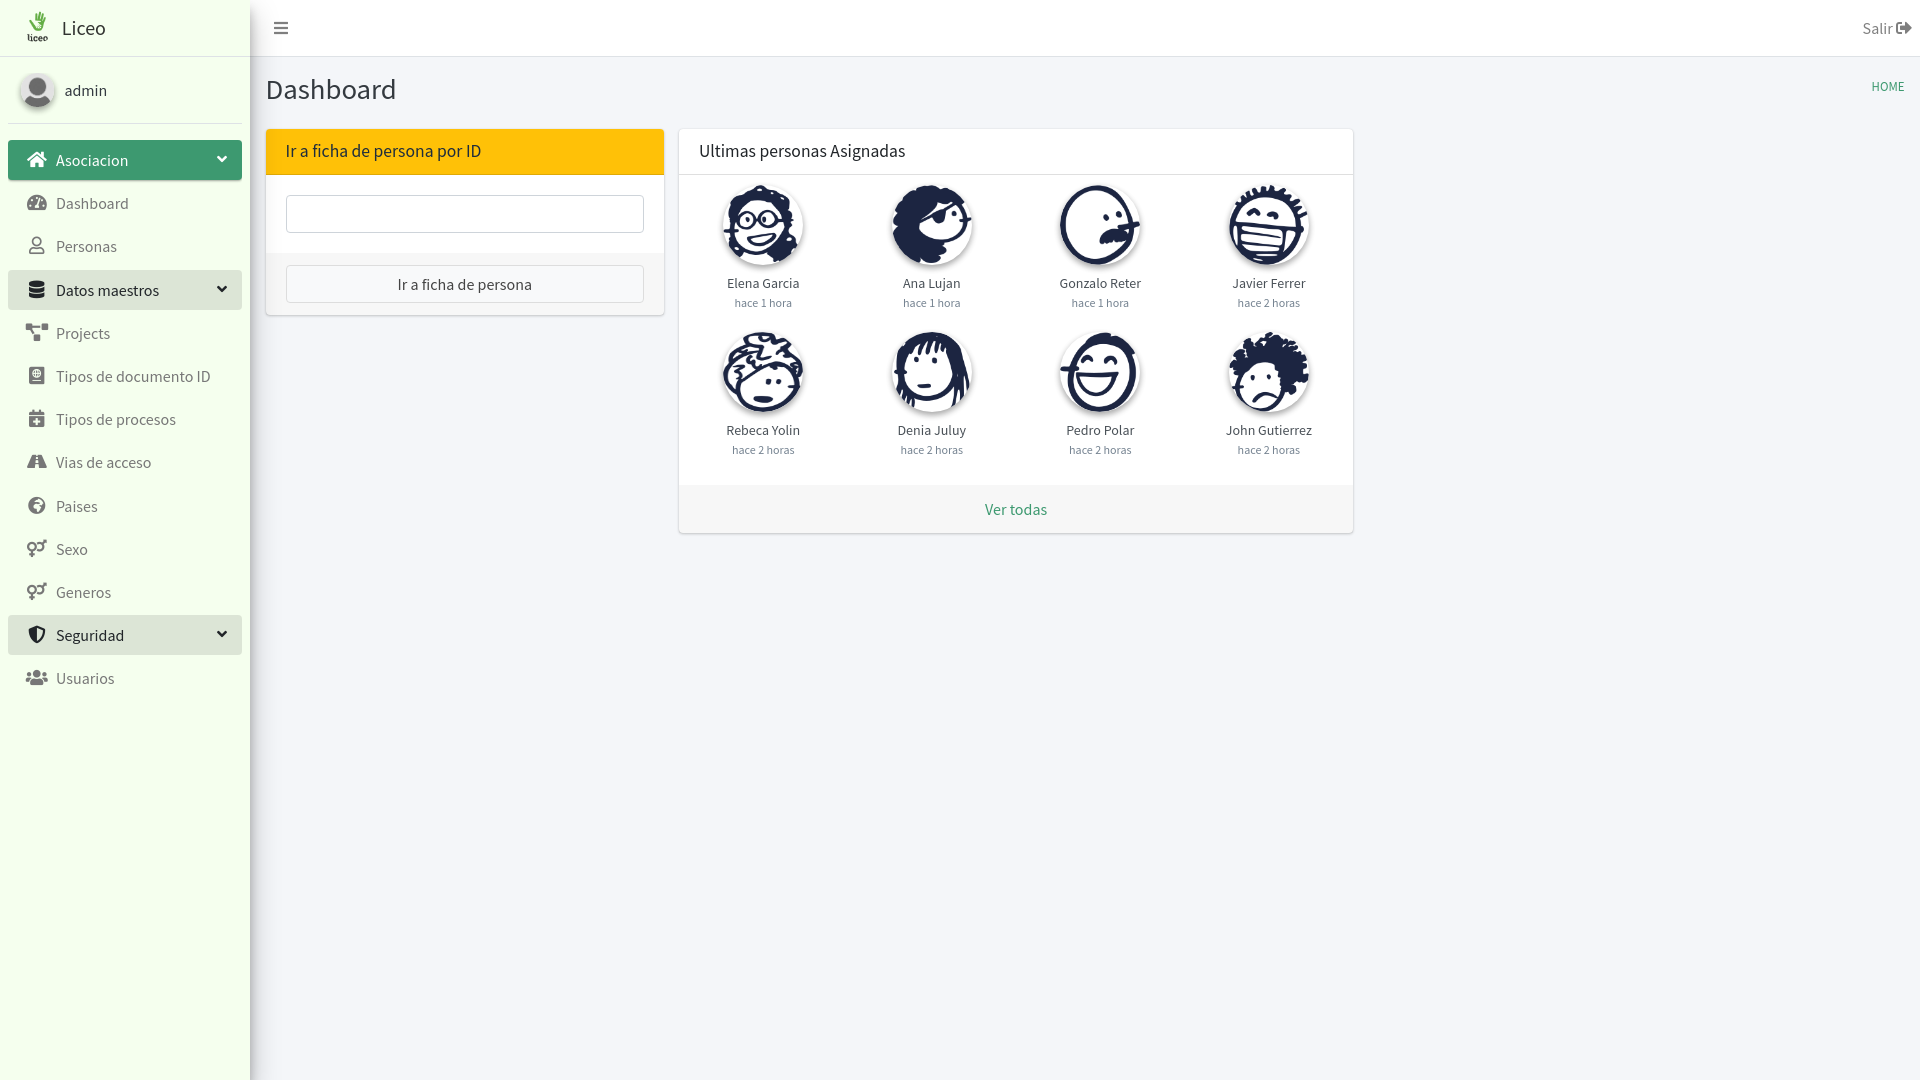
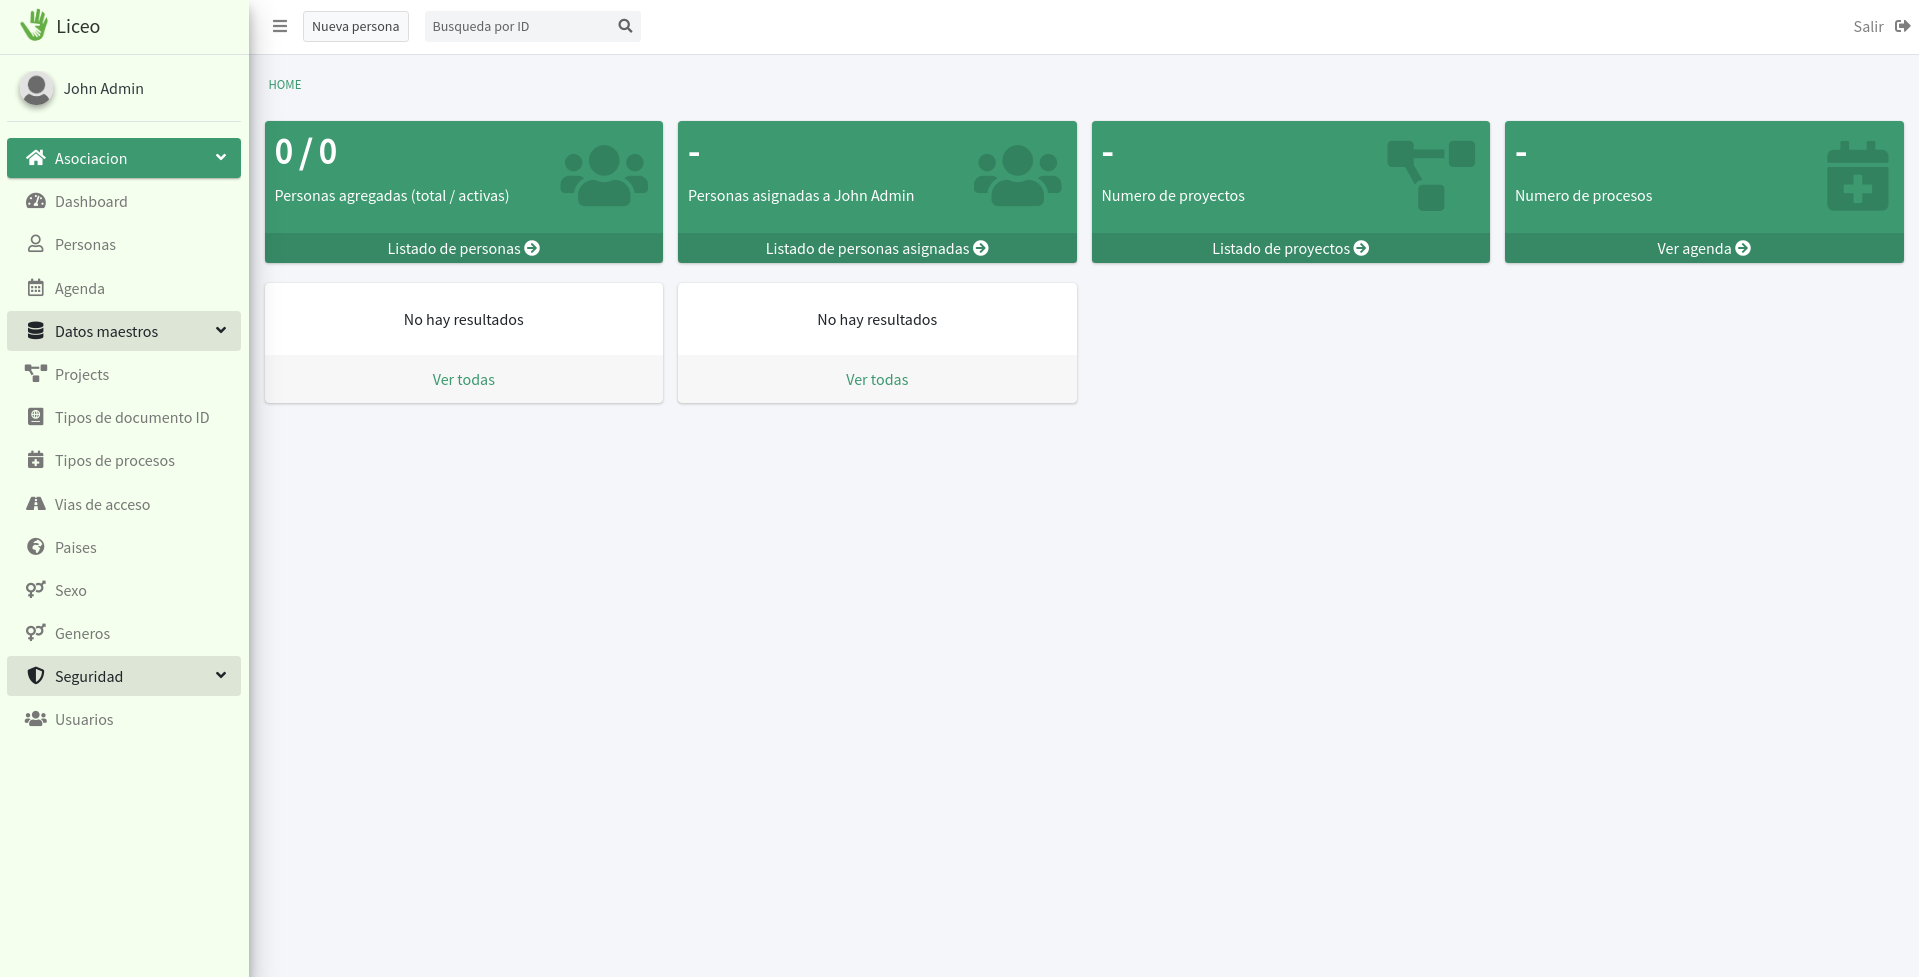
feat(dasboard): agregar informacion sobre el dashboard

diff --git a/src/guide/dashboard.md b/src/guide/dashboard.md
@@ -1,3 +1,31 @@
 # Dashboard
 
+Nada mas entrar en la aplicacion se visualizara la zona del dashboard:
+
 ![Dashboard](/guide/dashboard.png)
+
+En el dashboard se pueden visualizar una serie de estadisticas generales:
+
+![Login](/guide/dashboard_stats.png)
+
+De izquierda a derecha, la **primera columna** visualiza el **numero de personas gestionadas por el sistema** y debajo se mostrara una lista de personas. Esta lista de personas se ordenara por el numero e importancia de alertas asignadas a esa persona. De esta manera se prioriza que en el dashboad siempre se puedan visualizar aquellas personas que puedan necesitar supervision.
+
+La **segunda columna** muestra el **numero de personas asignadas al usuario logado**. Justo debajo se mostrara una lista con aquellas personas asignadas con un mayor numero de alertas asignadas. Igual que en la anterior columna, se priorizan aquellas personas que puedan necesitar mas atencion.
+
+## Organizacion general de Liceo
+
+En general liceo se divide en secciones y tiene tres zonas importantes:
+
+- Zona central: Donde se muestra el contenido de la seccion que estamos visitando
+- Zona superior: Acciones accesibles desde cualquier pantalla
+- Zona izquierda: Acceso a secciones concretas
+
+En la zona superior podemos ver acciones generales como **Nueva persona** para crear una nueva ficha o **Busqueda por ID** para ir a la ficha de una persona usando su identificador:
+
+![Cabecera](/guide/dashboard_upper.png)
+
+En la zona izquieda tenemos acceso a las diferentes secciones de Liceo:
+
+![Menu](/guide/dashboard_menu.png)
+
+Todas las secciones se agrupan en **Asociacion**, **Datos Maestros** y **Seguridad**. Dependiendo de si el usuario es de tipo administrador o no tendra acceso o no a todas las secciones. Los usuarios que no son administrador solo tendran acceso al grupo de secciones **Asociacion**.

diff --git a/src/install/docker.md b/src/install/docker.md
@@ -25,7 +25,7 @@ En unos instantes tu instancia de Liceo deberia estar disponible en [http://loca
 | DATABASE_USERNAME | Username de la base de datos               | liceo            |
 | DATABASE_PASSWORD | Password de la base de datos               | liceo            |
 | DATABASE_DRIVER_CLASSNAME | Nombre de la clase que crear las conexiones | org.h2.Driver |
-| STORAGE_PATH      | Directorio donde guardar los ficheros      | /tmp/kk          |
+| LICEO_FILES      | Directorio donde guardar los ficheros      | /tmp/kk          |
 
 *jdbc:h2:mem:devDb;MVCC=TRUE;LOCK_TIMEOUT=10000;DB_CLOSE_ON_EXIT=FALSE
 
@@ -45,3 +45,9 @@ docker run --rm -d -p 8080:8080 -e ADMIN_PASSWORD=liceopassword liceo-docker-pub
 Se pueden agregar cuantos parametros **-e** como se necesite. De todas maneras si se quiere especificar un entorno un poco mas complejo, se puede usar [Docker Compose](docker-compose.md)
 
 > Recomendamos cambiar los valores por defecto si se va a utilizar Liceo para cualquier otro proposito que no sea su simple evaluacion
+
+El valor de la variable de entorno **LICEO_FILES** tiene que corresponder con el path mapeado con la ruta del host, por ejemplo:
+
+```shell
+docker run --rm -d -p 8080:8080 -v /host/directory:/tmp/liceo -e LICEO_FILES=/tmp/liceo liceo-docker-public.bintray.io/web:latest
+```

diff --git a/src/install/docker-compose.md b/src/install/docker-compose.md
@@ -65,7 +65,7 @@ Por defecto se ejecutara la aplicacion contra una base de datos PostgreSQL y los
 | DATABASE_USERNAME | Username de la base de datos               | liceo            |
 | DATABASE_PASSWORD | Password de la base de datos               | liceo            |
 | DATABASE_DRIVER_CLASSNAME | Nombre de la clase que crear las conexiones | org.h2.Driver |
-| STORAGE_PATH      | Directorio donde guardar los ficheros      | /tmp/kk          |
+| LICEO_FILES      | Directorio donde guardar los ficheros      | /tmp/kk          |
 
 *jdbc:h2:mem:devDb;MVCC=TRUE;LOCK_TIMEOUT=10000;DB_CLOSE_ON_EXIT=FALSE
 
@@ -76,4 +76,6 @@ El valor de `DATABASE_DRIVER_CLASSNAME` y `DATABASE_URL` varia dependiendo de la
 | H2            | org.h2.Driver             | jdbc:h2:mem:devDb;MVCC=TRUE;LOCK_TIMEOUT=10000;DB_CLOSE_ON_EXIT=FALSE} |
 | PostgreSQL    | org.postgresql.Driver     | jdbc:postgresql://host[:puerto]/basededatos |
 
+### Ficheros
 
+El valor de la variable de entorno **LICEO_FILES** tiene que corresponder con el path mapeado con la ruta del host.

diff --git a/src/guide/login.md b/src/guide/login.md
@@ -1,3 +1,7 @@
 # Login
 
+Por defecto Liceo esta disponible en [http://localhost:8080](http://localhost:8080). La primera pantalla es la del login. En una nueva instalacion el usuario administrador por defecto es **admin/admin**.
+
 ![Login](/guide/login.png)
+
+Una vez se introduce correctamente el usuario/password se accedera al dashboard.
